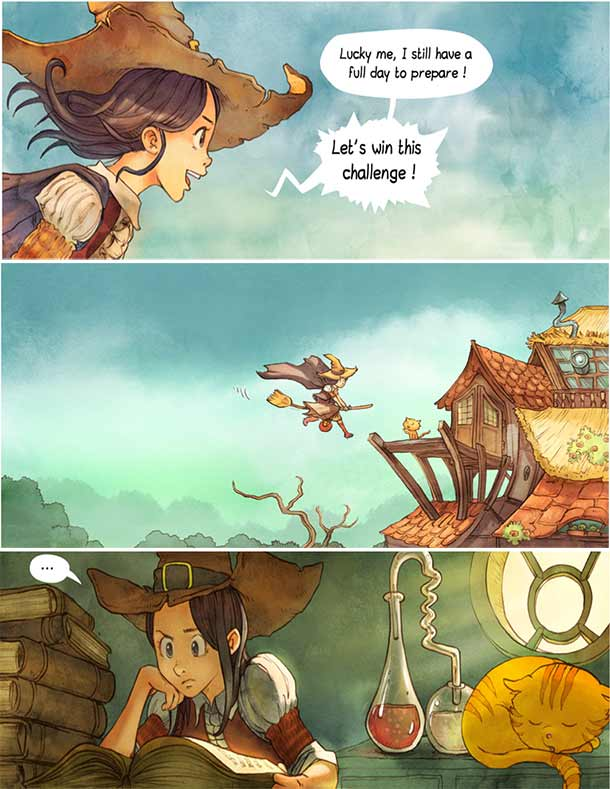
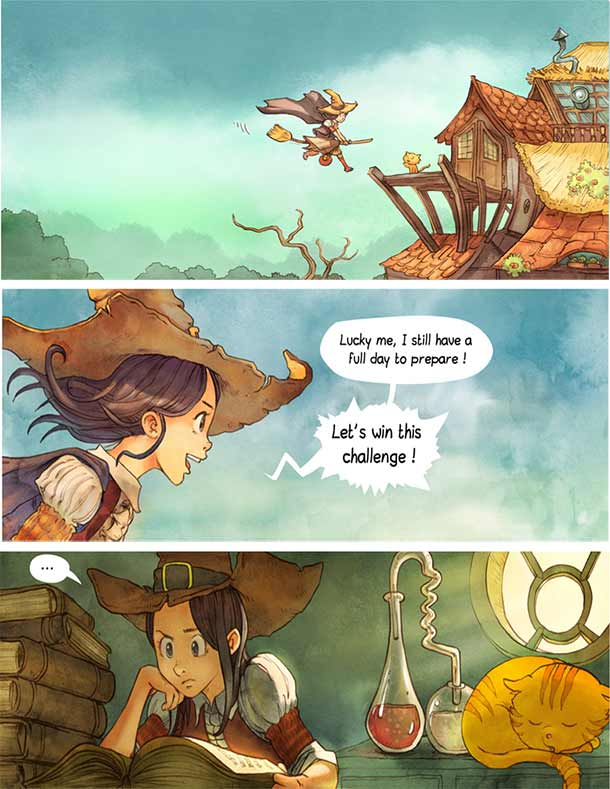
page-11 fix

diff --git a/manuscript/page-11/style.css b/manuscript/page-11/style.css
@@ -1,1 +1,1 @@
-body { background-image: url(https://raw.githubusercontent.com/marvindanig/the-secret-ingredients/master/assets/images/page-9.jpg); }
+body { background-image: url(https://raw.githubusercontent.com/marvindanig/the-secret-ingredients/master/assets/images/page-11.jpg); }
